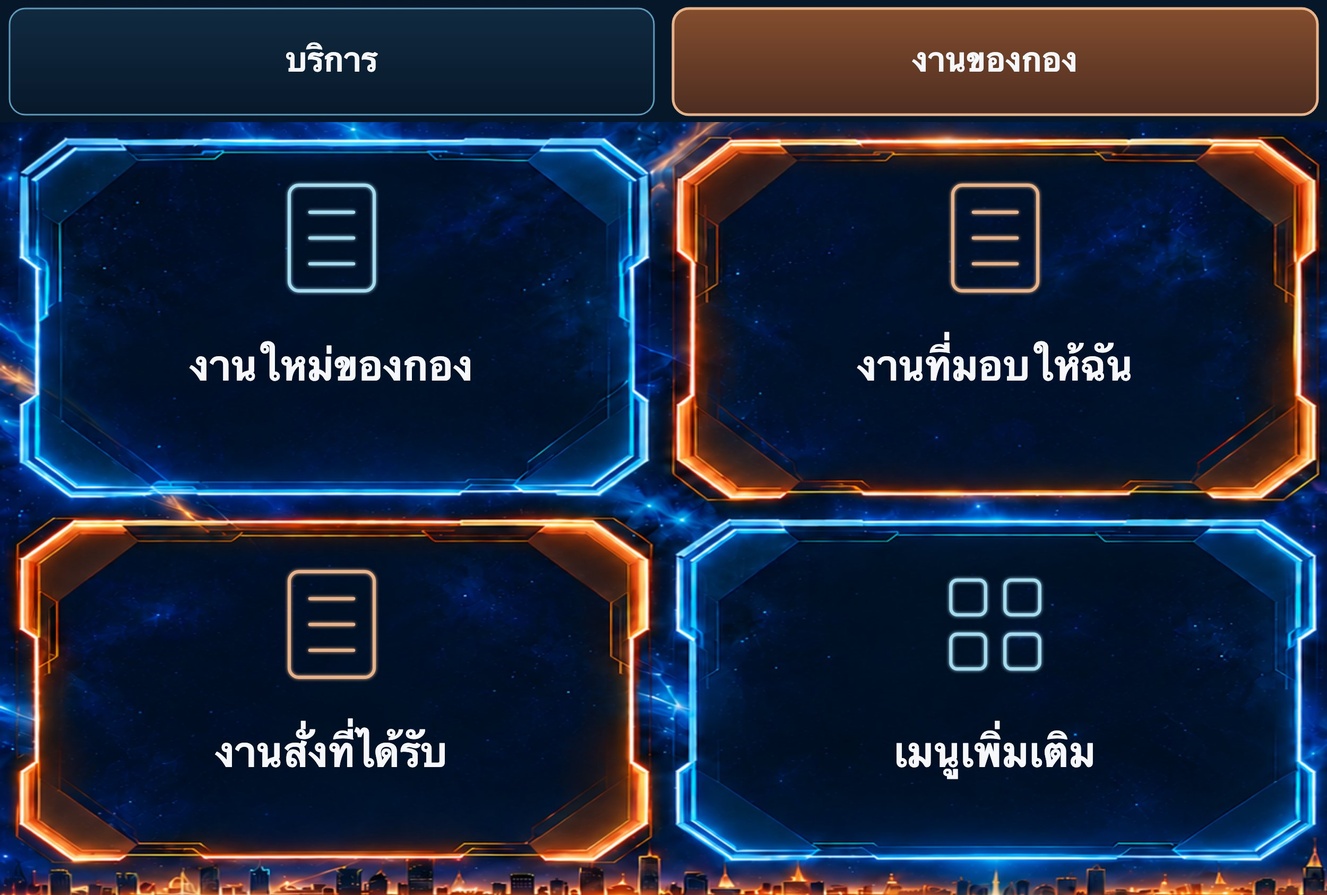
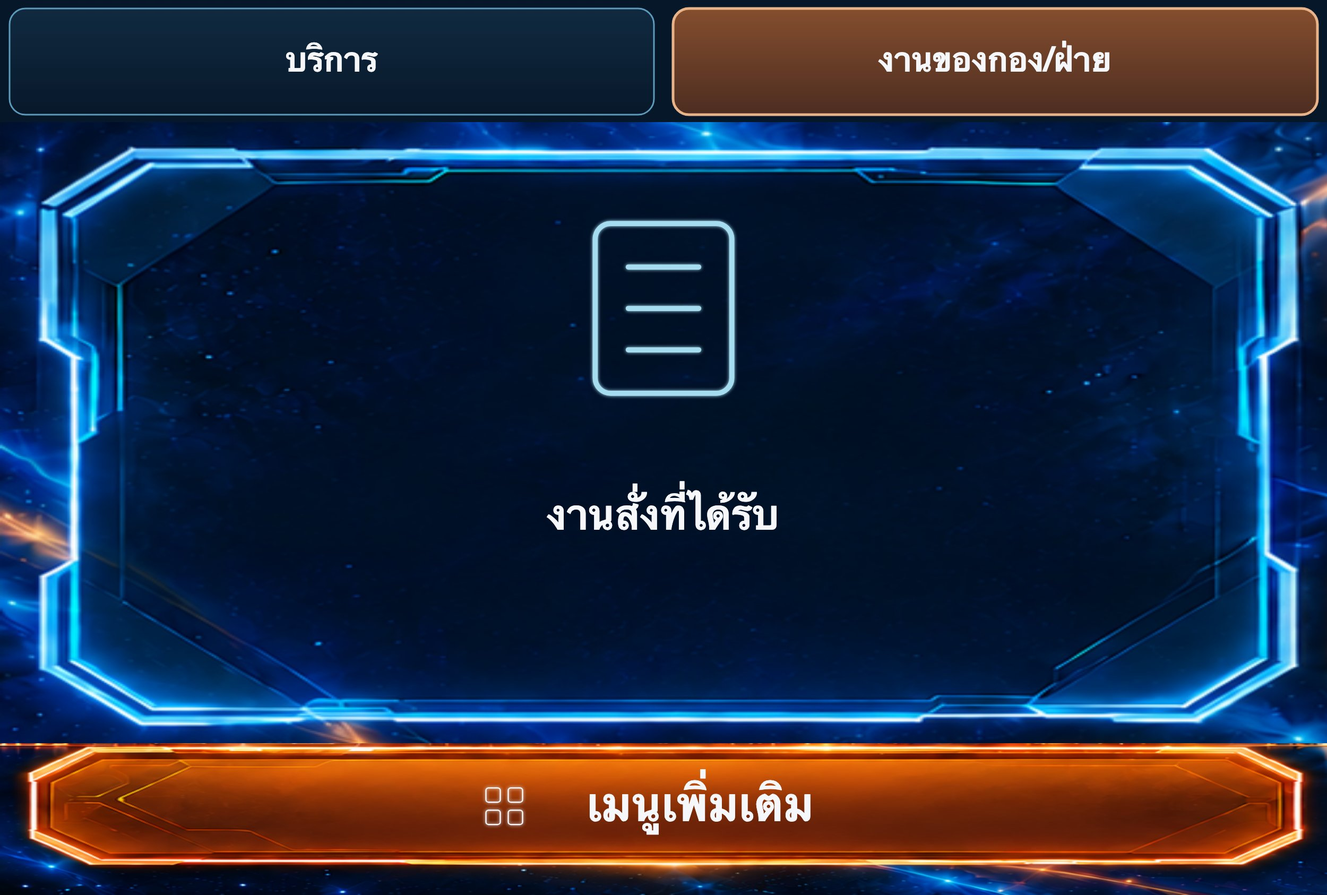
feat(line menu): one work page for every admin; roles named แอดมินกอง/แอดมินฝ่าย
The owner's answers on 1 Nov 2569 (ADR 0040):
- Supervisor ของกอง is shown as แอดมินกอง and Supervisor ระดับฝ่าย as แอดมินฝ่าย,
  in role choices and every message, page and glossary entry. Stored values
  stay supervisor / department_supervisor, so existing grants keep working;
  0092 only updates the choices.
- The work tab งานของกอง/ฝ่าย belongs to แอดมินกอง, แอดมินฝ่าย and the
  system's admins; สมาชิกกอง keep everyone's menu.
- One work page: งานสั่งที่ได้รับ and เมนูเพิ่มเติม, plus the Broadcast tile
  for แอดมินกอง/ฝ่าย. A system admin's งานสั่งที่ได้รับ spans the width and
  lists every กอง read-only with the กอง picker; Broadcast stays with
  แอดมินกอง/ฝ่าย.
- เมนูเพิ่มเติม keeps สั่งงาน for แอดมินฝ่าย; anyone else reads
  "ไม่มีเมนูเพิ่มเติมในขณะนี้".

staff-report and staff-work images rebuilt; 1402 tests, e2e and checks pass.

diff --git a/operations/static/operations/tour.js b/operations/static/operations/tour.js
@@ -82,7 +82,7 @@
         { page: "case", kind: "return", show: { action: "inspect" }, stage: 4, title: "5. ตรวจสภาพ",
           body: "ผู้ตรวจต้องไม่ใช่คนรับของชิ้นนั้น แบ่งผลเป็นพร้อมใช้ ต้องซ่อม หรือดำเนินการอื่น ผลขัดกันให้ผู้มีอำนาจรับรองสภาพอีกคนตัดสิน" },
         { page: "case", kind: "return", show: { action: "terminate_return" }, stage: 5, title: "6. ส่วนที่ไม่มา",
-          body: "ถ้าหน่วยงาน (เขต/ฝ่าย)ไม่ส่งของบางส่วน Supervisor ยุติพร้อมเหตุผล (สูญหายต้องมีเลขเอกสารทะเบียน)" },
+          body: "ถ้าหน่วยงาน (เขต/ฝ่าย)ไม่ส่งของบางส่วน แอดมินกองยุติพร้อมเหตุผล (สูญหายต้องมีเลขเอกสารทะเบียน)" },
         { page: "case", kind: "return", target: "[data-tour=timeline]", show: { open: "[data-tour=timeline] details" }, stage: 5, title: "6. ปิดเรื่อง",
           body: "รับและตรวจครบแล้วเรื่องปิดเอง ไม่ต้องกดปิด" }
       ]
@@ -101,7 +101,7 @@
         { page: "case", kind: "problem", show: { action: "request_info" }, stage: 1, title: "2. ขอข้อมูลเพิ่มจากหน่วยงาน (เขต/ฝ่าย)",
           body: "ข้อความนี้ส่งถึงผู้แจ้งทาง LINE ระหว่างรอหน่วยงาน (เขต/ฝ่าย)ตอบ กรอบเวลาของ ฝอจ. หยุดนับ" },
         { page: "case", kind: "problem", target: "[data-tour=clocks]", stage: 2, title: "3. กรอบเวลาแก้ไข",
-          body: "นับเวลาทำการ 07:30–15:30 เรื่องฉุกเฉินนับต่อเนื่อง เกินเวลาแล้วระบบเตือนและยกระดับให้ Supervisor" },
+          body: "นับเวลาทำการ 07:30–15:30 เรื่องฉุกเฉินนับต่อเนื่อง เกินเวลาแล้วระบบเตือนและยกระดับให้แอดมินกอง" },
         { page: "case", kind: "problem", show: { action: "request_child_work" }, stage: 2, title: "3. ให้กองอื่นช่วย",
           body: "สร้างงานย่อยให้กองอื่นทำบางส่วน กองเดิมยังดูแลเรื่องหลัก" },
         { page: "case", kind: "problem", show: { action: "resolve" }, stage: 3, title: "4. บันทึกผลการแก้ปัญหา",

diff --git a/operations/templates/operations/admin_user_detail.html b/operations/templates/operations/admin_user_detail.html
@@ -37,7 +37,7 @@
 <form method="post" action="{% url 'admin-user-action' target.pk 'grant' %}">
   <fieldset><legend>เพิ่มบทบาท</legend>{% csrf_token %}
 {% if work_split %}<p class="helptext">ตอนนี้แยกหน้าที่ย่อยในกอง แต่ละคนทำได้เฉพาะหน้าที่ที่ได้รับ</p>
-    {% else %}<p class="helptext">สมาชิกกองทำได้ทุกขั้นตอนของกองและมีอำนาจของกองติดมาด้วย Supervisor ของกองสั่งงานและมอบงานในกองนั้นได้เพิ่ม ส่วน Supervisor ระดับฝ่ายดูแลทุกกอง (เว้นช่องกองว่าง)</p>{% endif %}
+    {% else %}<p class="helptext">สมาชิกกองทำได้ทุกขั้นตอนของกองและมีอำนาจของกองติดมาด้วย แอดมินกองสั่งงานและมอบงานในกองนั้นได้เพิ่ม ส่วน แอดมินฝ่ายดูแลทุกกอง (เว้นช่องกองว่าง)</p>{% endif %}
     {{ grant_form.as_p }}<button type="submit">เพิ่ม</button></fieldset>
 </form>
 <form method="post" action="{% url 'admin-user-action' target.pk 'employee-id' %}">

diff --git a/operations/templates/operations/admin_problems.html b/operations/templates/operations/admin_problems.html
@@ -4,7 +4,7 @@
 {% block content %}
 <div class="page-head">
   <div class="page-head__text">
-    <span class="eyebrow">{% if may_send %}แอดมินและ Supervisor ระดับฝ่าย{% else %}ดูได้อย่างเดียว{% endif %}</span>
+    <span class="eyebrow">{% if may_send %}แอดมินระบบและแอดมินฝ่าย{% else %}ดูได้อย่างเดียว{% endif %}</span>
     <h1>ปัญหาและข้อเสนอแนะ</h1>
     <p class="lede">เรื่องแจ้งปัญหาและข้อเสนอแนะทุกช่องทาง ใหม่สุดก่อน แท็บรอแอดมินคือเรื่องที่ผู้แจ้งเลือก "ปัญหาการใช้งานหรืออื่นๆ" แอดมินตอบเองในหน้าเรื่อง หรือติ๊กแล้วส่งให้กอง ผู้แจ้งไม่ระบุตัวตนแสดงเป็นรหัสแทนตัว</p>
   </div>

diff --git a/operations/templates/operations/_org_card.html b/operations/templates/operations/_org_card.html
@@ -28,7 +28,7 @@
   <div class="org-card__block">
     <h3 class="org-card__h">ผู้รับแจ้งเรื่องสำคัญ</h3>
     {% if c.receivers %}<p>{{ c.receivers|join:", " }}</p>
-    {% else %}<p class="muted">{% if c.unit.section or c.unit.group %}ไม่ได้เลือก จึงใช้ของหน่วยที่ใหญ่กว่า{% else %}ไม่ได้เลือก จึงส่งหา Supervisor ของกอง{% endif %}</p>{% endif %}
+    {% else %}<p class="muted">{% if c.unit.section or c.unit.group %}ไม่ได้เลือก จึงใช้ของหน่วยที่ใหญ่กว่า{% else %}ไม่ได้เลือก จึงส่งหา แอดมินกอง{% endif %}</p>{% endif %}
   </div>
 
   {% if c.koj %}<div class="org-card__block">

diff --git a/operations/static/operations/broadcast.js b/operations/static/operations/broadcast.js
@@ -238,6 +238,6 @@
   };
   (async () => {
     try { await bootstrap(); if(config.campaign_id) await details(config.campaign_id); else await history(); }
-    catch { if(config.liff_id && window.liff) await run(lineLogin); else $('login-help').textContent = 'กรุณาเข้าสู่ระบบด้วยบัญชี Supervisor เพื่อดำเนินการ'; }
+    catch { if(config.liff_id && window.liff) await run(lineLogin); else $('login-help').textContent = 'กรุณาเข้าสู่ระบบด้วยบัญชีแอดมินกองหรือแอดมินฝ่ายเพื่อดำเนินการ'; }
   })();
 })();

diff --git a/operations/templates/operations/order_new.html b/operations/templates/operations/order_new.html
@@ -31,7 +31,7 @@
         </optgroup>
       {% endfor %}
     </select>
-    <p class="helptext" id="o-target-help">สั่งถึงทั้งกองแล้ว Supervisor ของกองเลือกคนทำต่อได้ สั่งได้เฉพาะกองที่คุณดูแล</p>
+    <p class="helptext" id="o-target-help">สั่งถึงทั้งกองแล้ว แอดมินกองเลือกคนทำต่อได้ สั่งได้เฉพาะกองที่คุณดูแล</p>
   </div>
   <div class="field">
     <label for="o-detail">รายละเอียด</label>

diff --git a/operations/templates/operations/case_detail.html b/operations/templates/operations/case_detail.html
@@ -203,7 +203,7 @@
         <ul class="stack-sm mt-18">
           {% for d in page.problem.disputes %}<li class="notice notice--warning"><div class="notice__body"><strong>ผู้แจ้งโต้แย้งผล</strong>{{ d.reason }}</div></li>{% endfor %}
         </ul>
-        {% if page.problem.repeat_dispute %}<p class="flag flag--alert mt-8">โต้แย้งซ้ำ แจ้ง Supervisor แล้ว</p>{% endif %}
+        {% if page.problem.repeat_dispute %}<p class="flag flag--alert mt-8">โต้แย้งซ้ำ แจ้งแอดมินกองแล้ว</p>{% endif %}
       {% endif %}
     </section>
     {% endif %}

diff --git a/operations/line_menu.py b/operations/line_menu.py
@@ -39,12 +39,12 @@ PAGES = (
 )
 PAGE_TITLES = {
     "user": "ทุกคน",
-    "employee-report": "เจ้าหน้าที่ · บริการ",
-    "staff-report": "เจ้าหน้าที่ · บริการ",
-    "staff-work": "เจ้าหน้าที่ · งานของกอง",
-    "sup-report": "Supervisor · บริการ",
-    "sup-work": "Supervisor · งานของกอง/ฝ่าย",
-    "sup-order": "Supervisor · สั่งงาน",
+    "employee-report": "พนักงาน · บริการ",
+    "staff-report": "แอดมินระบบ · บริการ",
+    "staff-work": "แอดมินระบบ · งานของกอง/ฝ่าย",
+    "sup-report": "แอดมินกอง/ฝ่าย · บริการ",
+    "sup-work": "แอดมินกอง/ฝ่าย · งานของกอง/ฝ่าย",
+    "sup-order": "แอดมินกอง/ฝ่าย · สั่งงาน",
 }
 logger = logging.getLogger(__name__)
 
@@ -117,16 +117,18 @@ def areas(page="user"):
     if is_service_page:
         top = [{"item": item} for item in tiles(T.REPORT)]
         bottom = [{"item": item} for item in bar(T.REPORT)]
-    elif page == "sup-work":
-        url = broadcast_url()
-        top = [
-            {"item": None, "label": "งานสั่งที่ได้รับ", "postback": "m=staff_inbox"},
-            {
-                "item": None,
-                "label": "Broadcast",
-                **({"uri": url} if url else {"postback": "m=broadcast"}),
-            },
-        ]
+    elif tab == T.WORK:
+        # 1 Nov 2569: one work page for every admin; only แอดมินกอง/ฝ่าย add the Broadcast tile.
+        top = [{"item": None, "label": "งานสั่งที่ได้รับ", "postback": "m=staff_inbox"}]
+        if role == "sup":
+            url = broadcast_url()
+            top.append(
+                {
+                    "item": None,
+                    "label": "Broadcast",
+                    **({"uri": url} if url else {"postback": "m=broadcast"}),
+                }
+            )
         bottom = [{"item": None, "label": "เมนูเพิ่มเติม", "postback": "m=roles", "place": "bar"}]
     else:
         top = [{"item": item} for item in tiles(tab)[:3]]
@@ -147,8 +149,8 @@ def areas(page="user"):
                 "h": top_h,
             }
         )
-    if is_service_page or page == "sup-work":
-        columns = 2 if page == "sup-work" else 3
+    if is_service_page or tab == T.WORK:
+        columns = 3 if is_service_page else 2
         rows = [top[i : i + columns] for i in range(0, len(top), columns)]
         grid_h = tile_h - (BAR if bottom else 0)
         for r, row in enumerate(rows):
@@ -242,7 +244,7 @@ def drawing():
                 label, note, place = a["label"], "", a.get("place", "tile")
             elif a["item"] is None:
                 label = "บริการ" if a["tab"] == T.REPORT else T(a["tab"]).label
-                if a["role"] == "sup" and a["tab"] == T.WORK:
+                if a["tab"] == T.WORK:
                     label = "งานของกอง/ฝ่าย"
                 note, place = "", "tab"
             else:
@@ -274,13 +276,19 @@ def _picture(data):
 
 
 def staff_page(user):
-    """The service grid is the default; staff can switch to work and order tabs when needed."""
+    """The service grid is the default; admins switch to the work tab when needed."""
     return "sup-report" if identity.staff_scope(user).overseen else "staff-report"
+
+
+def has_work_tab(user):
+    """1 Nov 2569: แอดมินกอง/ฝ่าย and the system's admins get the work tab; สมาชิกกอง do not."""
+    scope = identity.staff_scope(user)
+    return bool(scope.overseen) or scope.is_admin or scope.is_support
 
 
 def page_for_identity(row):
     user = row.staff_user
-    if user and user.is_active and identity.staff_scope(user).has_any_access:
+    if user and user.is_active and has_work_tab(user):
         return staff_page(user)
     requester = row.requester
     if (

diff --git a/operations/tests/test_m13_staff_chat.py b/operations/tests/test_m13_staff_chat.py
@@ -88,8 +88,25 @@ class WorkTabTests(StaffChatTestCase):
 
         RoleGrant.objects.filter(user=self.head).update(revoked_at=timezone.now())
         reply = self.say(self.postback(ALICE, "m=broadcast"))
-        self.assertIn("สงวนสิทธิ์สำหรับ Supervisor", texts(reply))
+        self.assertIn("สงวนสิทธิ์สำหรับแอดมินกองและแอดมินฝ่าย", texts(reply))
         self.assertNotIn("เปิด Broadcast", buttons(reply))
+
+    def test_every_admin_opens_the_inbox_and_members_do_not(self):
+        # 1 Nov 2569: the system's admins read every กอง there; สมาชิกกอง have no work tab.
+        self.link(self.admin, ALICE)
+        order = work_orders.create(self.director, "งานที่แอดมินระบบเห็น", self.kae)
+        reply = self.say(self.postback(ALICE, "m=staff_inbox"))
+        self.assertIn(order.number, texts(reply))
+        self.assertIn("เลือกกอง/ศูนย์", buttons(reply))
+        member = make_staff("kaemember", (Role.STAFF, "กองอุปกรณ์ฯ"))
+        self.link(member, BOB)
+        reply = self.say(self.postback(BOB, "m=staff_inbox"))
+        self.assertIn("สงวนสิทธิ์สำหรับแอดมิน", texts(reply))
+
+    def test_more_menu_offers_nothing_but_orders_of_the_department_admin(self):
+        self.link(self.head, ALICE)
+        reply = self.say(self.postback(ALICE, "m=roles"))
+        self.assertIn("ไม่มีเมนูเพิ่มเติมในขณะนี้", texts(reply))
 
     def test_new_received_tile_opens_scoped_inbox(self):
         self.link(self.head, ALICE)
@@ -153,7 +170,7 @@ class OrderTabTests(StaffChatTestCase):
     def test_the_order_tab_is_for_supervisors_only(self):
         member = make_staff("kaemember", (Role.STAFF, "กองอุปกรณ์ฯ"))
         self.link(member, ALICE)
-        self.assertIn("Supervisor ระดับฝ่ายเท่านั้น", texts(self.tile(A.ORDER_NEW)))
+        self.assertIn("แอดมินฝ่ายเท่านั้น", texts(self.tile(A.ORDER_NEW)))
 
     def test_more_menu_contains_only_order_for_department_supervisor(self):
         self.link(self.director, ALICE)
@@ -166,7 +183,7 @@ class OrderTabTests(StaffChatTestCase):
         self.link(self.head, ALICE)
         self.assertEqual(buttons(self.say(self.postback(ALICE, "m=roles"))), {})
         for reply in (self.tile(A.ORDER_NEW), self.type(ALICE, "สั่งงาน")):
-            self.assertIn("Supervisor ระดับฝ่ายเท่านั้น", texts(reply))
+            self.assertIn("แอดมินฝ่ายเท่านั้น", texts(reply))
         self.type(ALICE, "ให้ทั้งกอง กองอุปกรณ์ฯ ตรวจมิเตอร์")
         self.type(ALICE, "ยืนยัน")
         self.assertFalse(WorkOrder.objects.exists())

diff --git a/operations/options.py b/operations/options.py
@@ -101,7 +101,7 @@ OPTIONS = {
                 "member",
                 "สมาชิกกองทำได้ทุกขั้นตอน",
                 "สมาชิกกองรับเรื่อง อนุมัติ จ่าย รับคืน ตรวจสภาพ รับรองสภาพ และแก้ปัญหาได้ทุกเรื่อง"
-                "ของกอง Supervisor ทำได้เท่าสมาชิก และสั่งงานหรือมอบงานได้เพิ่ม",
+                "ของกอง แอดมินกองทำได้เท่าสมาชิก และสั่งงานหรือมอบงานได้เพิ่ม",
             ),
             (
                 "roles",
@@ -153,8 +153,8 @@ OPTIONS = {
             ("admin", "แอดมินระบบเท่านั้น", "ปลอดภัยที่สุด ทุกคำขอผ่านแอดมิน"),
             (
                 "supervisor",
-                "แอดมิน หรือ Supervisor ของกองใดก็ได้",
-                "กระจายงานอนุมัติไปที่ Supervisor ของแต่ละกอง",
+                "แอดมิน หรือ แอดมินกองใดก็ได้",
+                "กระจายงานอนุมัติไปที่ แอดมินของแต่ละกอง",
             ),
             (
                 "staff",
@@ -262,8 +262,8 @@ OPTIONS = {
             (
                 "acting",
                 "เฉพาะคนที่ต้องทำ",
-                "งานที่สั่งถึงคนไหนแจ้งคนนั้น งานที่สั่งถึงทั้งกองแจ้ง Supervisor ของกอง "
-                "(ถ้ากองไม่มี Supervisor แจ้งทุกคนในกอง) คนอื่นดูงานได้จากเมนูโดยไม่ใช้โควตาข้อความ",
+                "งานที่สั่งถึงคนไหนแจ้งคนนั้น งานที่สั่งถึงทั้งกองแจ้ง แอดมินกอง "
+                "(ถ้ากองไม่มีแอดมินกอง แจ้งทุกคนในกอง) คนอื่นดูงานได้จากเมนูโดยไม่ใช้โควตาข้อความ",
             ),
             (
                 "division",

diff --git a/operations/tests/test_m13_line_menu.py b/operations/tests/test_m13_line_menu.py
@@ -248,18 +248,34 @@ class StaffMenuTests(MenuTestCase):
                             "ติดตามเลขเรื่อง",
                         ],
                     )
-                elif page == "sup-work":
+                elif page.endswith("-work"):
+                    # 1 Nov 2569: one work page; Broadcast is the extra tile of แอดมินกอง/ฝ่าย.
                     self.assertEqual(nav[0]["data"], "m=staff_inbox")
                     self.assertEqual(nav[-1]["data"], "m=roles")
+                    extra = ["Broadcast"] if page == "sup-work" else []
                     self.assertEqual(
                         [box["label"] for box in drawing[page][2:]],
-                        ["งานสั่งที่ได้รับ", "Broadcast", "เมนูเพิ่มเติม"],
+                        ["งานสั่งที่ได้รับ", *extra, "เมนูเพิ่มเติม"],
                     )
                 else:
                     self.assertEqual(len(nav), 4)
                     self.assertEqual(nav[-1]["data"], "m=roles")
                 if page.startswith(("staff-", "sup-")):
                     self.assertEqual(drawing[page][0]["label"], "บริการ")
+                    self.assertEqual(drawing[page][1]["label"], "งานของกอง/ฝ่าย")
+
+    def test_the_work_tab_follows_admin_roles(self):
+        # 1 Nov 2569: แอดมินกอง/ฝ่าย get the tab with Broadcast, the system's admins get it
+        # without Broadcast, and สมาชิกกอง keep everyone's menu.
+        people = {
+            "user": make_staff("tabmember", (Role.STAFF, "กองอุปกรณ์ฯ")),
+            "sup-report": make_staff("tabhead", (Role.SUPERVISOR, "กองอุปกรณ์ฯ")),
+            "staff-report": make_staff("tabadmin", (Role.ADMIN, None)),
+        }
+        for page, user in people.items():
+            with self.subTest(page=page):
+                line = ChannelIdentity(channel="line", external_id="U" + "a" * 32, staff_user=user)
+                self.assertEqual(line_menu.page_for_identity(line), page)
 
     @override_settings(LINE_CHANNEL_ACCESS_TOKEN="test-token")
     def test_a_staff_line_follows_its_role(self):

diff --git a/operations/migrations/0092_role_labels_admin.py b/operations/migrations/0092_role_labels_admin.py
@@ -1,0 +1,45 @@
+# Generated by Django 5.2.17 on 2026-11-01 03:44
+
+from django.db import migrations, models
+
+
+class Migration(migrations.Migration):
+    dependencies = [
+        ("operations", "0091_merge_calendar_times_broadcast"),
+    ]
+
+    operations = [
+        migrations.AlterField(
+            model_name="deadlinepause",
+            name="kind",
+            field=models.CharField(
+                choices=[
+                    ("awaiting_info", "รอข้อมูลจากหน่วยงาน (เขต/ฝ่าย)"),
+                    ("supervisor", "แอดมินกองอนุมัติพัก"),
+                ],
+                max_length=16,
+            ),
+        ),
+        migrations.AlterField(
+            model_name="rolegrant",
+            name="role",
+            field=models.CharField(
+                choices=[
+                    ("admin", "แอดมินระบบ"),
+                    ("developer_admin", "แอดมินผู้พัฒนา"),
+                    ("system_support", "ผู้ช่วยเหลือระบบ"),
+                    ("department_supervisor", "แอดมินฝ่าย"),
+                    ("staff", "สมาชิกกอง"),
+                    ("approver", "ผู้รับเรื่องของกอง"),
+                    ("issuer", "ผู้จ่าย"),
+                    ("receiver", "ผู้รับคืน"),
+                    ("inspector", "ผู้ตรวจสภาพ"),
+                    ("resolver", "ผู้แก้ปัญหา"),
+                    ("supervisor", "แอดมินกอง"),
+                    ("division_viewer", "ผู้ดูข้อมูลของกอง"),
+                    ("department_viewer", "ผู้ดูข้อมูลระดับฝ่าย"),
+                ],
+                max_length=32,
+            ),
+        ),
+    ]
